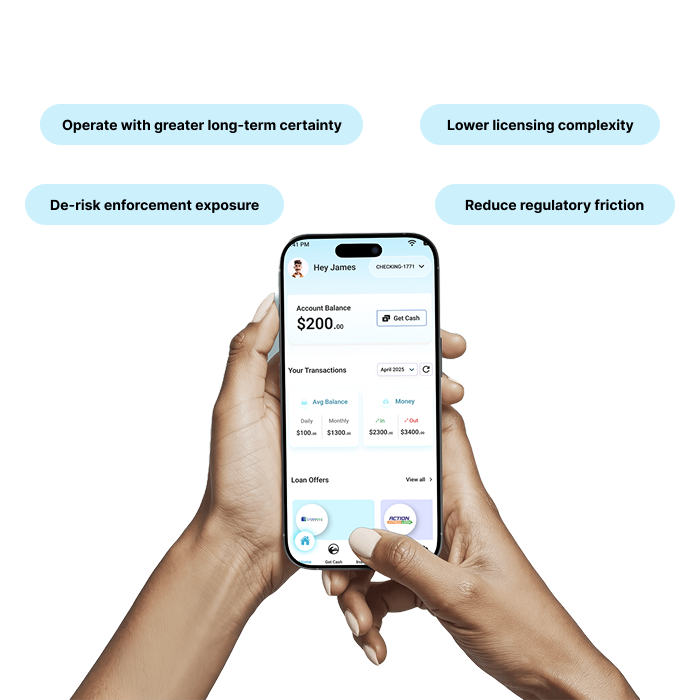
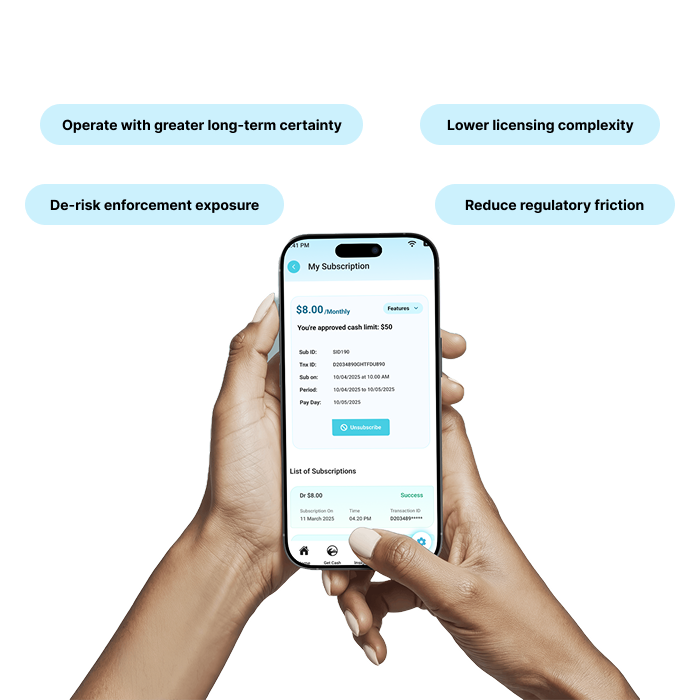
content changes 29th dec

Changed region(s): [[0.39, 0.33, 0.63, 0.63], [0.42, 0.66, 0.63, 0.81]]

diff --git a/index.html b/index.html
@@ -177,7 +177,9 @@
             <p class="mt-4 mb-4">
               ROJA is a turnkey, white-label app-based technology platform built for traditional
               payday lenders, tribal lenders, and modern fintech operators who want to move beyond
-              legacy Loan Management Systems.
+              legacy Loan Management Systems.<br> ROJA powers subscription-driven, no-cost advance and Earned Wage Access
+(EWA) business models—reducing regulatory exposure, lowering operating costs, and
+unlocking recurring revenue through long-term customer engagement.
             </p>
 
             <p><Strong>ROJA isn’t a replacement for lenders.
@@ -190,11 +192,11 @@
           <!-- app buttons -->
           <ul class="app_btn mt-4">
             <li class="mr-3">
-              <a href="freedemo.html">Request a Demo </a>
+              <a href="request-demo.html">Request a Demo </a>
             </li>
 
             <li class="bdem">
-              <a href="freedemo.html">Talk to an Expert</a>
+              <a href="contact.html">Talk to an Expert</a>
             </li>
           </ul>
         </div>
@@ -821,7 +823,7 @@ rebuilding everything from scratch.</p>
               <li><a href="index.html">Home</a></li>
               <li><a href="about.html">About</a></li>
               <li><a href="whitelabel.html">Platform</a></li>
-              <li><a href="blog.html">Blog</a></li>
+              
               <li><a href="contact.html">Contact Us</a></li>
             </ul>
           </div>
@@ -1032,7 +1034,7 @@ rebuilding everything from scratch.</p>
 
 
     $("#typed").typed({
-      strings: ["Roja",],
+      strings: ["ROJA", "Subscription-First", "Regulatory Clarity", ],
       typeSpeed: 100,
       startDelay: 0,
       backSpeed: 60,

diff --git a/benefits.html b/benefits.html
@@ -426,7 +426,7 @@ subscription-based and no-cost advance models.
               <li><a href="index.html">Home</a></li>
               <li><a href="about.html">About</a></li>
               <li><a href="whitelabel.html">Platform</a></li>
-              <li><a href="blog.html">Blog</a></li>
+              
               <li><a href="contact.html">Contact Us</a></li>
             </ul>
           </div>

diff --git a/about.html b/about.html
@@ -540,7 +540,7 @@
               <li><a href="index.html">Home</a></li>
               <li><a href="about.html">About</a></li>
               <li><a href="whitelabel.html">Platform</a></li>
-              <li><a href="blog.html">Blog</a></li>
+              
               <li><a href="contact.html">Contact Us</a></li>
             </ul>
           </div>

diff --git a/blog-details.html b/blog-details.html
@@ -686,7 +686,7 @@
               <li><a href="index.html">Home</a></li>
               <li><a href="about.html">About</a></li>
               <li><a href="whitelabel.html">Platform</a></li>
-              <li><a href="blog.html">Blog</a></li>
+              
               <li><a href="contact.html">Contact Us</a></li>
             </ul>
           </div>

diff --git a/blog.html b/blog.html
@@ -437,7 +437,7 @@
               <li><a href="index.html">Home</a></li>
               <li><a href="about.html">About</a></li>
               <li><a href="whitelabel.html">Platform</a></li>
-              <li><a href="blog.html">Blog</a></li>
+              
               <li><a href="contact.html">Contact Us</a></li>
             </ul>
           </div>

diff --git a/compliance-security.html b/compliance-security.html
@@ -560,7 +560,7 @@
               <li><a href="index.html">Home</a></li>
               <li><a href="about.html">About</a></li>
               <li><a href="whitelabel.html">Platform</a></li>
-              <li><a href="blog.html">Blog</a></li>
+              
               <li><a href="contact.html">Contact Us</a></li>
             </ul>
           </div>

diff --git a/contact.html b/contact.html
@@ -307,7 +307,7 @@
               <li><a href="index.html">Home</a></li>
               <li><a href="about.html">About</a></li>
               <li><a href="whitelabel.html">Platform</a></li>
-              <li><a href="blog.html">Blog</a></li>
+              
               <li><a href="contact.html">Contact Us</a></li>
             </ul>
           </div>

diff --git a/cookiepolicy.html b/cookiepolicy.html
@@ -407,7 +407,7 @@
               <li><a href="index.html">Home</a></li>
               <li><a href="about.html">About</a></li>
               <li><a href="whitelabel.html">Platform</a></li>
-              <li><a href="blog.html">Blog</a></li>
+              
               <li><a href="contact.html">Contact Us</a></li>
             </ul>
           </div>

diff --git a/faq.html b/faq.html
@@ -921,7 +921,7 @@
               <li><a href="index.html">Home</a></li>
               <li><a href="about.html">About</a></li>
               <li><a href="whitelabel.html">Platform</a></li>
-              <li><a href="blog.html">Blog</a></li>
+              
               <li><a href="contact.html">Contact Us</a></li>
             </ul>
           </div>

diff --git a/howitworks.html b/howitworks.html
@@ -405,7 +405,7 @@
               <li><a href="index.html">Home</a></li>
               <li><a href="about.html">About</a></li>
               <li><a href="whitelabel.html">Platform</a></li>
-              <li><a href="blog.html">Blog</a></li>
+              
               <li><a href="contact.html">Contact Us</a></li>
             </ul>
           </div>

diff --git a/instant_cash_advance.html b/instant_cash_advance.html
@@ -553,7 +553,7 @@
               <li><a href="index.html">Home</a></li>
               <li><a href="about.html">About</a></li>
               <li><a href="whitelabel.html">Platform</a></li>
-              <li><a href="blog.html">Blog</a></li>
+              
               <li><a href="contact.html">Contact Us</a></li>
             </ul>
           </div>

diff --git a/platform-features.html b/platform-features.html
@@ -592,7 +592,7 @@
               <li><a href="index.html">Home</a></li>
               <li><a href="about.html">About</a></li>
               <li><a href="whitelabel.html">Platform</a></li>
-              <li><a href="blog.html">Blog</a></li>
+              
               <li><a href="contact.html">Contact Us</a></li>
             </ul>
           </div>
